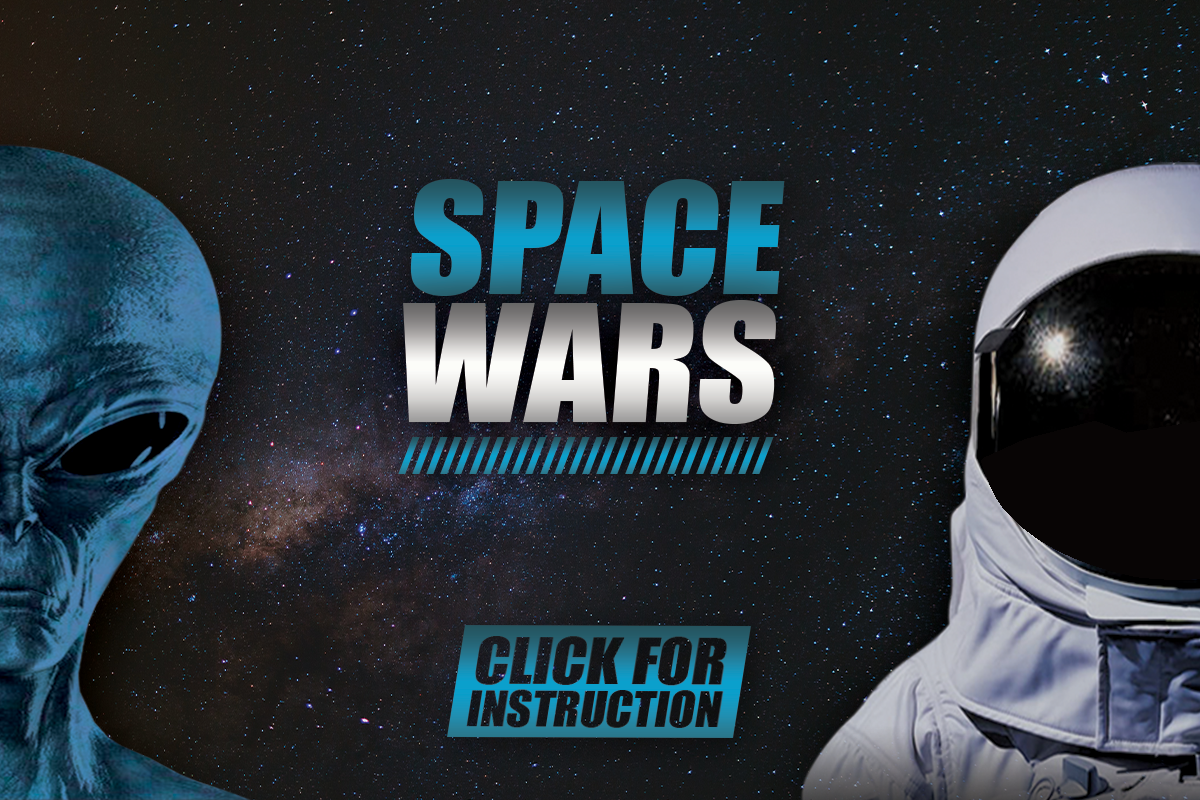
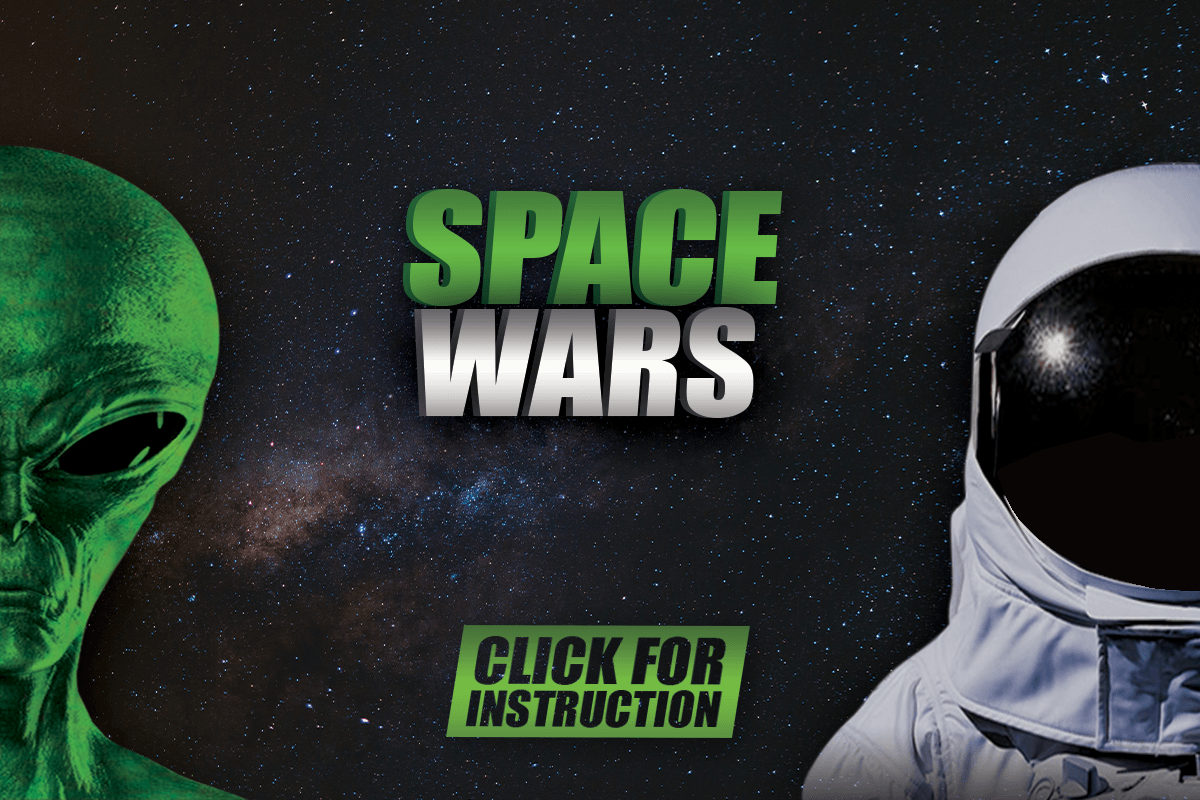
P3: Created a new Life Class
- Created New life class that will be a life bottle, that once consumed by the alien will give him full life.
- added the script in index.html
- Changed the start screen and end Screen

diff --git a/projects/Project03/js/Life.js b/projects/Project03/js/Life.js
@@ -1,0 +1,81 @@
+// Life
+//
+// A class that represents Life potion
+// that will appear on screen and if consumed by the alien will give him his full life back
+
+class Life {
+
+  // constructor
+  //
+  // Sets the initial values for the life's properties
+  // Either sets default values or uses the arguments provided
+  constructor(x, y, speed, radius, lifeImg) {
+    // Position
+    this.x = x;
+    this.y = y;
+    // Velocity and speed
+    this.vx = 0;
+    this.vy = random(1, 15);
+    this.speed = speed;
+    // Health properties
+    this.maxHealth = radius;
+    this.health = this.maxHealth; // Must be AFTER defining this.maxHealth
+    // Display properties
+    this.lifeImg = lifeImg;
+    this.radius = radius;
+    this.HealthLoss = radius;
+  }
+
+  // move
+  //
+  // Updates the position according to velocity
+  // Handles wrapping
+  move() {
+    // Update position
+    this.x += this.vx;
+    this.y += this.vy;
+    // Handle wrapping
+    this.handleWrapping();
+  }
+
+  // handleWrapping
+  //
+  // Checks if the life bottle has gone off the canvas and wrap it around the screen
+
+  handleWrapping() {
+    // off the bottom
+    if (this.y > height) {
+      this.y -= height;
+      this.x = random(0, width);
+    }
+  }
+
+
+  // display
+  //
+  // Draw the life bottle
+  // with a radius the same size as its current health.
+  display() {
+    push();
+    noStroke();
+    this.radius = this.health;
+    // Display life bottle
+    if (this.radius > 20) {
+      imageMode(CENTER);
+      image(this.lifeImg, this.x, this.y, this.radius * 2, this.radius * 2);
+    }
+    pop();
+  }
+
+  // reset
+  //
+  // reset the asteroid after each distruction
+  reset() {
+    this.x = random(0, width);
+    this.y = 0;
+    this.vy = random(1, 15);
+    this.health = this.maxHealth;
+  }
+
+
+}

diff --git a/projects/Project03/js/script.js b/projects/Project03/js/script.js
@@ -75,7 +75,7 @@ function preload() {
   // Load Forest background and foreground tree and starting background
   bgImage = loadImage("assets/images/space.jpg");
   startImg = loadImage("assets/images/StartScreen.png");
-  endImg = loadImage("assets/images/endScreen.jpg");
+  endImg = loadImage("assets/images/endScreen.png");
   instructionImg = loadImage("assets/images/instruction.jpg");
 
   // load Alien and Astronauts images

diff --git a/projects/Project03/index.html b/projects/Project03/index.html
@@ -20,6 +20,7 @@
     <script src="js/Astronautusa.js"></script>
     <script src="js/Astronautrus.js"></script>
     <script src="js/Asteroid.js"></script>
+    <script src="js/Life.js"></script>
     <script src="js/Stars.js"></script>
     <script src="js/script.js"></script>
   </head>
